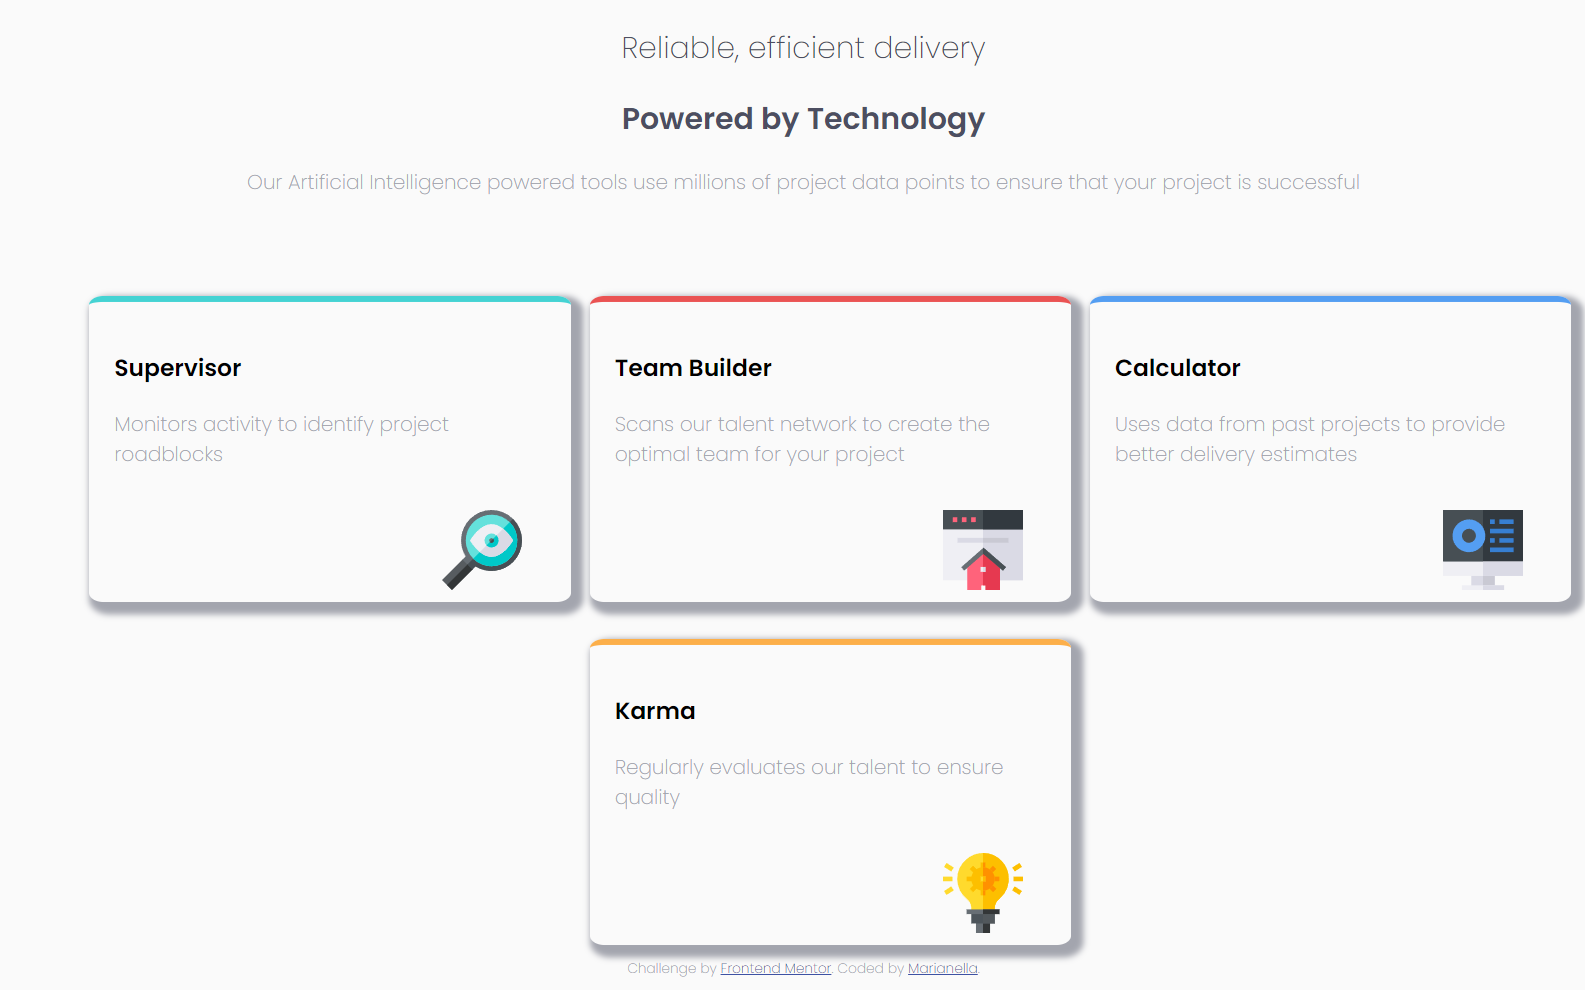
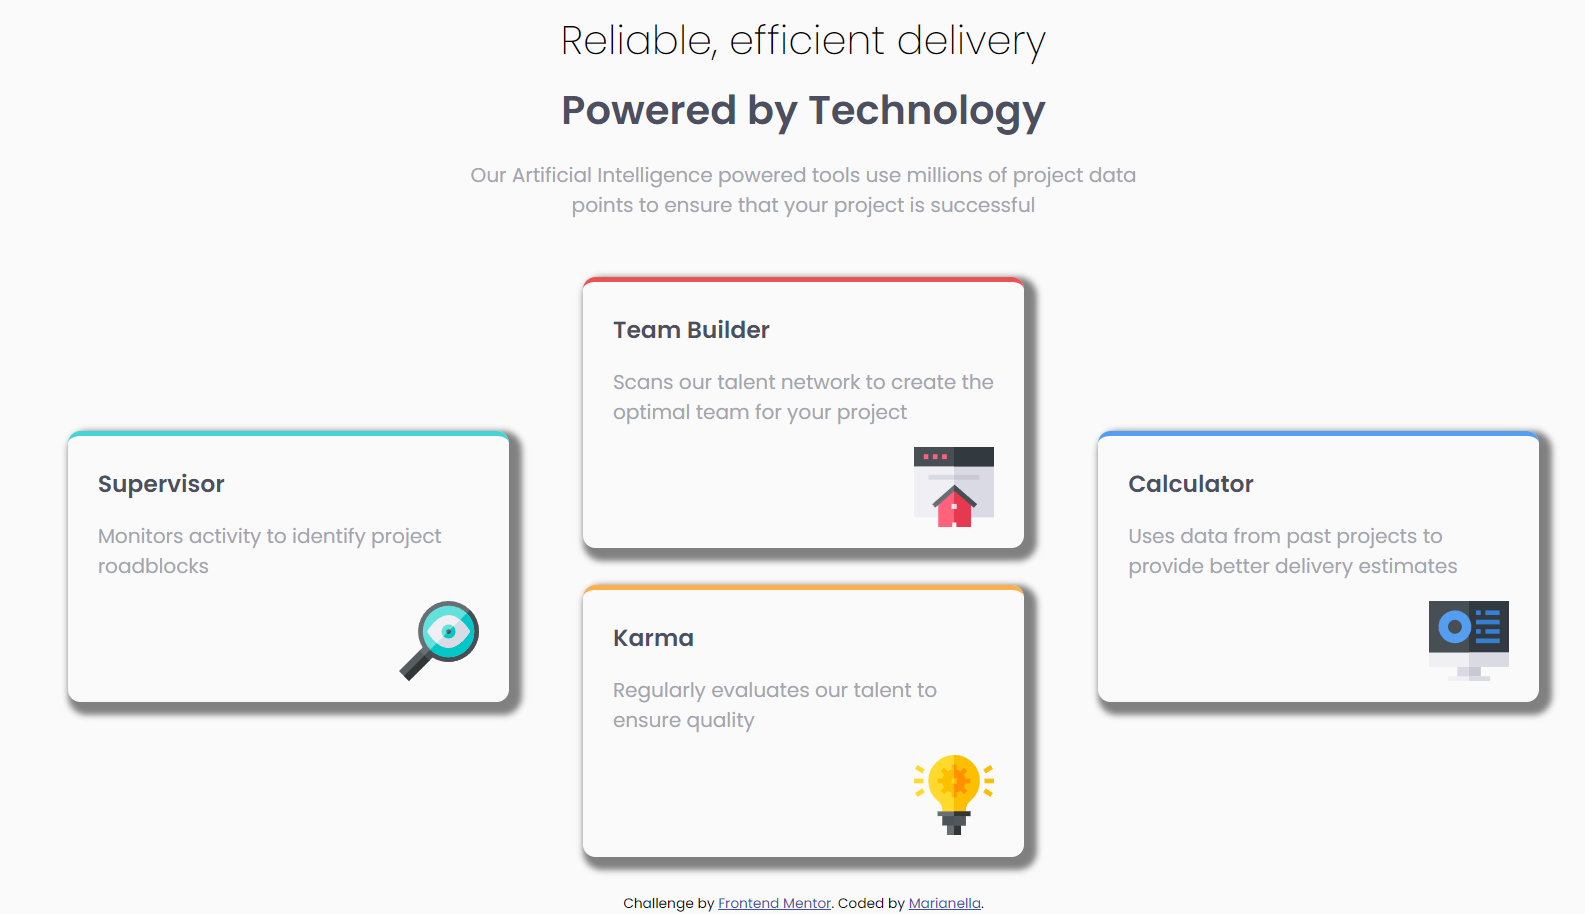
re-did challenge due to relying on bootstrap and would rather try to challenge myself with css.

diff --git a/Assets/css/style.css b/Assets/css/style.css
@@ -1,3 +1,4 @@
+/* Weights: 200, 400, 600 */
 .attribution {
     font-size: 11px;
     text-align: center;
@@ -5,6 +6,12 @@
 
 .attribution a {
     color: hsl(228, 45%, 44%);
+}
+
+* {
+    margin: 0;
+    padding: 0;
+    box-sizing: content-box;
 }
 
 :root {
@@ -17,93 +24,86 @@
     --light: hsl(0, 0%, 98%);
 }
 
-.footer {
-    padding: 0;
-    /* position: fixed;
-    left: 0;
-    bottom: 0;
-    width: 100%;
-    text-align: center; */
-}
-
 
 body {
+    min-height: 100vh;
+    display: flex;
+    justify-content: center;
+    flex-direction: column;
+    align-items: center;
     font-family: 'Poppins', sans-serif;
     background-color: var(--light);
 }
 
-.grid-container {
-    display: grid;
-    grid-template-columns: auto auto auto auto;
-    grid-gap: 10px;
-    padding-left: 5%;
+.header {
+    text-align: center;
 }
+
+.header h1 {
+    padding: 0.50rem;
+    font-weight: 200;
+}
+
+.header h2 {
+    font-size: xx-large;
+    color: var(--dark);
+}
+
+.header p {
+    padding: 1rem;
+    color: var(--grayish);
+    width: 45%;
+    display: flex;
+    display: inline-flex;
+}
+
+.main {
+    display: flex;
+
+}
+
 
 .box {
-    border-top: 5px solid;
-    width: 345px;
-    height: 200px;
-    padding: 20px;
-    border-radius: 3%;
-    box-shadow: 5px 5px 5px 5px var(--grayish);
-    position: relative;
+    width: 305px;
+    height: 165px;
+    padding: 1.5rem;
+    margin: 1.85rem;
+    border-radius: 10px;
+    box-shadow: 5px 5px 5px 5px grey;
 }
 
-.one {
-    grid-row: 1/ span 2;
-}
-
-.three {
-    grid-row: 2 / span 2;
-}
-
-h1 {
-    font-weight: 200;
+.box h3 {
+    font-weight: 600;
     color: var(--dark);
-    text-align: center;
 }
 
-h2 {
-    color: var(--dark);
-    text-align: center;
-}
-
-p {
-    font-weight: 200;
+.box p {
+    padding-top: 1rem;
+    padding-bottom: 1rem;
     color: var(--grayish);
-    padding-bottom: 5%;
-}
-
-.intro p {
-    text-align: center;
 }
 
 .one {
-    border-top-color: var(--cyan);
+    border-top: 4px solid var(--cyan);
 }
 
 .two {
-    border-top-color: var(--red);
+    border-top: 4px solid var(--red);
 }
 
 .three {
-    border-top-color: var(--orange);
-    margin-top: 5%;
+    border-top: 4px solid var(--orange);
 }
 
 .four {
-    border-top-color: var(--blue);
+    border-top: 4px solid var(--blue);
 }
 
-img {
-    position: absolute;
-    right: 0;
-    padding-right: 10%;
+.one,
+.four {
+    align-self: center;
 }
 
-
-/* @media screen and (min-width: 375px) {
-    .grid-container {
-        flex-wrap: wrap;
-    }
-} */
+.box img {
+    float: right;
+}

diff --git a/index.html b/index.html
@@ -14,32 +14,36 @@
 
 <body>
   <main>
-    <section class="intro">
+
+    <header class="header">
       <h1>Reliable, efficient delivery</h1>
       <h2><strong>Powered by Technology</strong></h2>
       <p>Our Artificial Intelligence powered tools use millions of project data points
         to ensure that your project is successful</p>
-    </section>
+    </header>
+ 
+    <div class="main">
 
-    <div class="grid-container">
       <section class="box one">
         <h3>Supervisor</h3>
         <p>Monitors activity to identify project roadblocks</p>
         <img src="./images/icon-supervisor.svg" alt="magnifying glass icon">
       </section>
-
-      <section class="box two">
-        <h3>Team Builder</h3>
-        <p>Scans our talent network to create the optimal team for your project</p>
-        <img src="./images/icon-team-builder.svg" alt="website icon">
-      </section>
-
-      <section class="box three">
-        <h3>Karma</h3>
-        <p>Regularly evaluates our talent to ensure quality</p>
-        <img src="./images/icon-karma.svg" alt="lightbulb icon">
-      </section>
-
+      
+      <div class="container">
+        <section class="box two">
+          <h3>Team Builder</h3>
+          <p>Scans our talent network to create the optimal team for your project</p>
+          <img src="./images/icon-team-builder.svg" alt="website icon">
+        </section>
+        
+        <section class="box three">
+          <h3>Karma</h3>
+          <p>Regularly evaluates our talent to ensure quality</p>
+          <img src="./images/icon-karma.svg" alt="lightbulb icon">
+        </section>
+      </div>
+      
       <section class="box four">
         <h3>Calculator</h3>
         <p>Uses data from past projects to provide better delivery estimates</p>

diff --git a/README-template.md b/README-template.md
@@ -43,11 +43,11 @@ Users should be able to:
 
 ### Continued development
 
-I would really like to center box 1 and 4, as the challenge design shows
+I would like for the shadowing to be more blurry and the code in general to be cleaner.
 
 ### Useful resources
 
-- [Google](https://www.google.com) - This helped me for XYZ reason. I really liked this pattern and will use it going forward.
+- [Google](https://www.google.com) - helpful!
 
 
 ## Author
